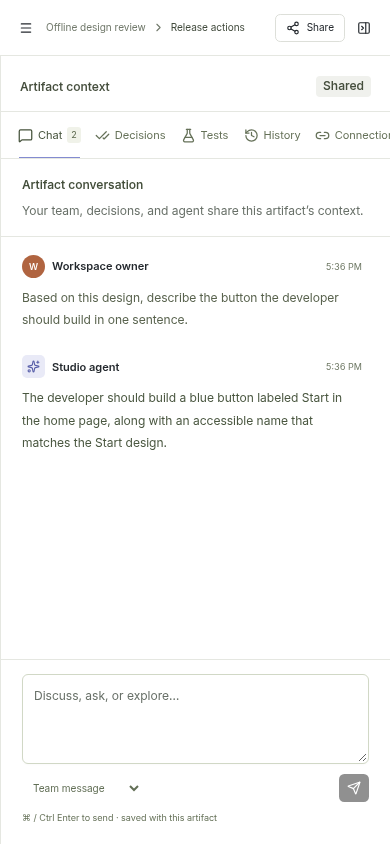
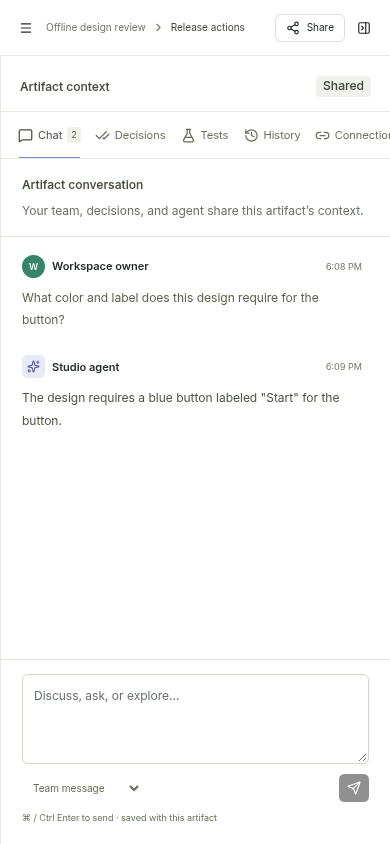
docs(studio): pin reviewed explicit local source-facts browser evidence

Changed region(s): [[0.0615, 0.4621, 0.8615, 0.5545], [0.0615, 0.2773, 0.8615, 0.4005]]

diff --git a/docs/studio-evidence/local-cpu/README.md b/docs/studio-evidence/local-cpu/README.md
@@ -1,11 +1,13 @@
 # Actual local CPU browser evidence
 
-The focused browser test runs the normal built client and App/Auth/SQL backend on port8891, with real SHA-verified Qwen weights. It selects and saves the artifact's explicit Local CPU runtime, evaluates a native finite predicate, asks the model about the design's blue Start button, and checks its generated reply against the persisted record through desktop/mobile reload and a fresh login. The artifact's original ADR and discussion IDs remain attached, and the canonical document stays unchanged.
+The focused browser test runs the normal built client and App/Auth/SQL backend on port8891, with real SHA-verified Qwen weights. It selects and saves the artifact's explicit Local CPU runtime, evaluates a native finite predicate, and asks “What color and label does this design require for the button?” Strict assertions require both blue and Start in the generated reply, then compare that exact reply with the persisted record through desktop/mobile reload and a fresh login. The artifact's original ADR and discussion IDs remain attached, and the canonical document stays unchanged. This explicit-facts case passed twice; the final run took7.7seconds.
 
 - `local-runtime-picker.png` shows the actual local chat and independent local decision configuration.
 - `local-design-chat.png` shows the design and its generated artifact conversation.
 - `local-design-chat-mobile.png` shows the same persisted reply at390×844.
 
 All three final images were opened and reviewed after the final passing run. Controls, labels and response text match the tested state; no page errors, HTTP500s or unexpected external browser requests occurred. `browser-receipt.json` pins the source, client build, model, native decision helper and image hashes. This is local inference and browser evidence; hosted managed T3 has a separate deployment acceptance scope.
+
+The earlier broad-summary request (“Based on this design, describe the button the developer should build in one sentence”) omitted blue in a rerun after the final-human-message role correction and failed its strict assertion. That rerun is not reported as passing. The successful explicit-facts question demonstrates this bounded source lookup; it does not establish complete summary fidelity or general model accuracy. `historical-43d6845/` preserves the earlier screenshots and receipt under their original source, before that role correction.
 
 Reproduce with `STUDIO_LOCAL_TEST_MODEL_DIR=/absolute/verified/model-directory STUDIO_REQUIRE_LOCAL_MODEL_TEST=1 pnpm --filter @ai-bdd/studio exec playwright test --config playwright.local-cpu.config.ts` after building the client.
